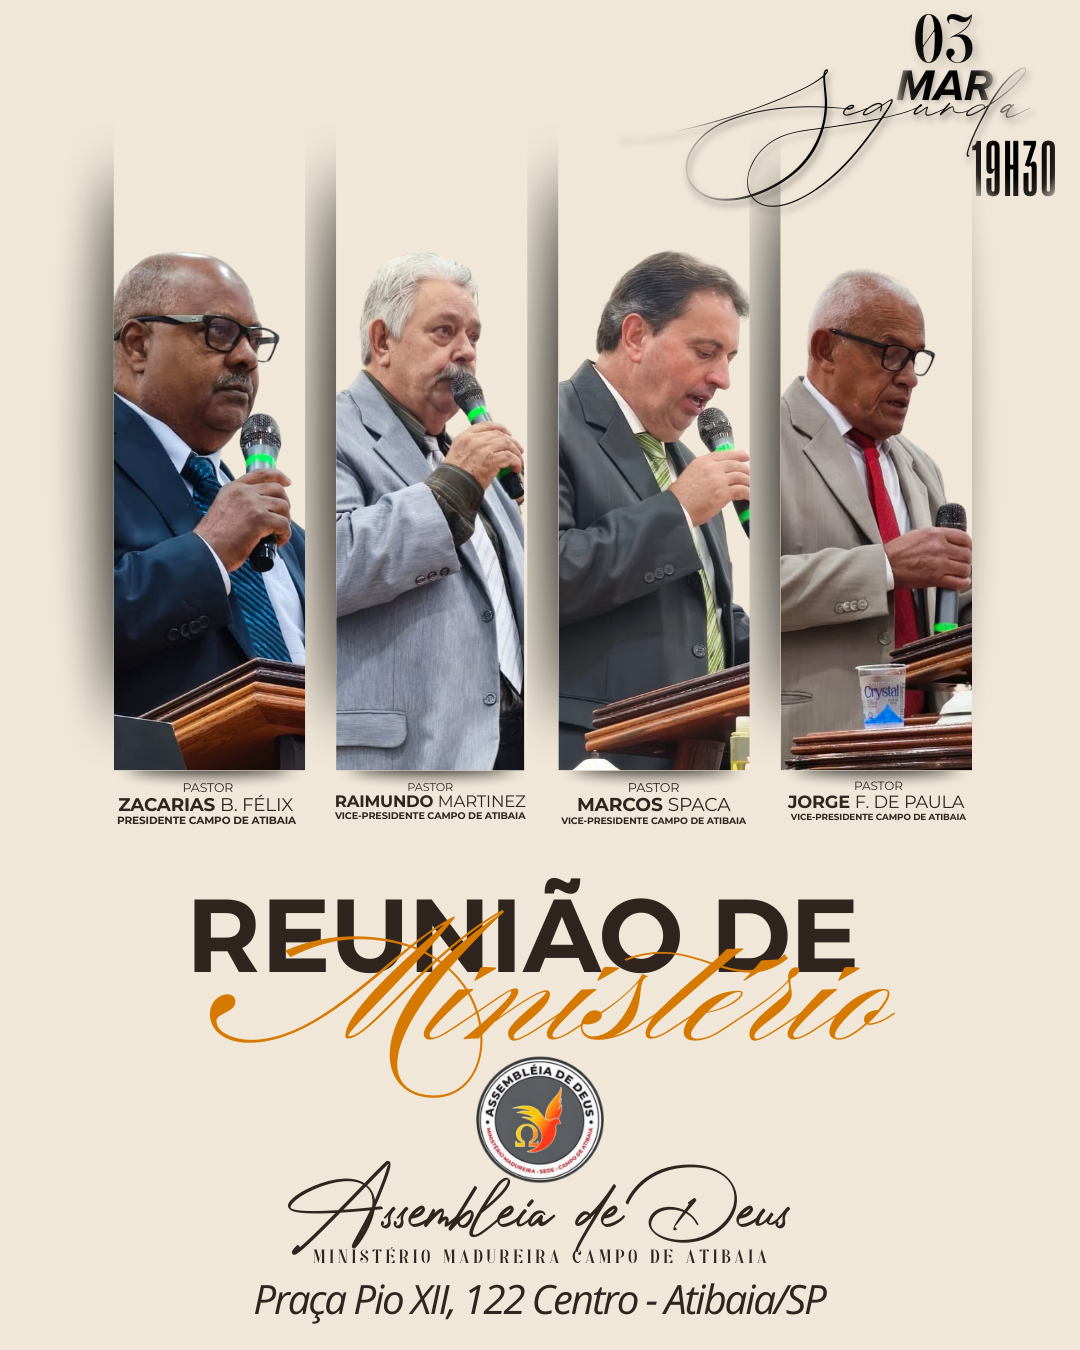
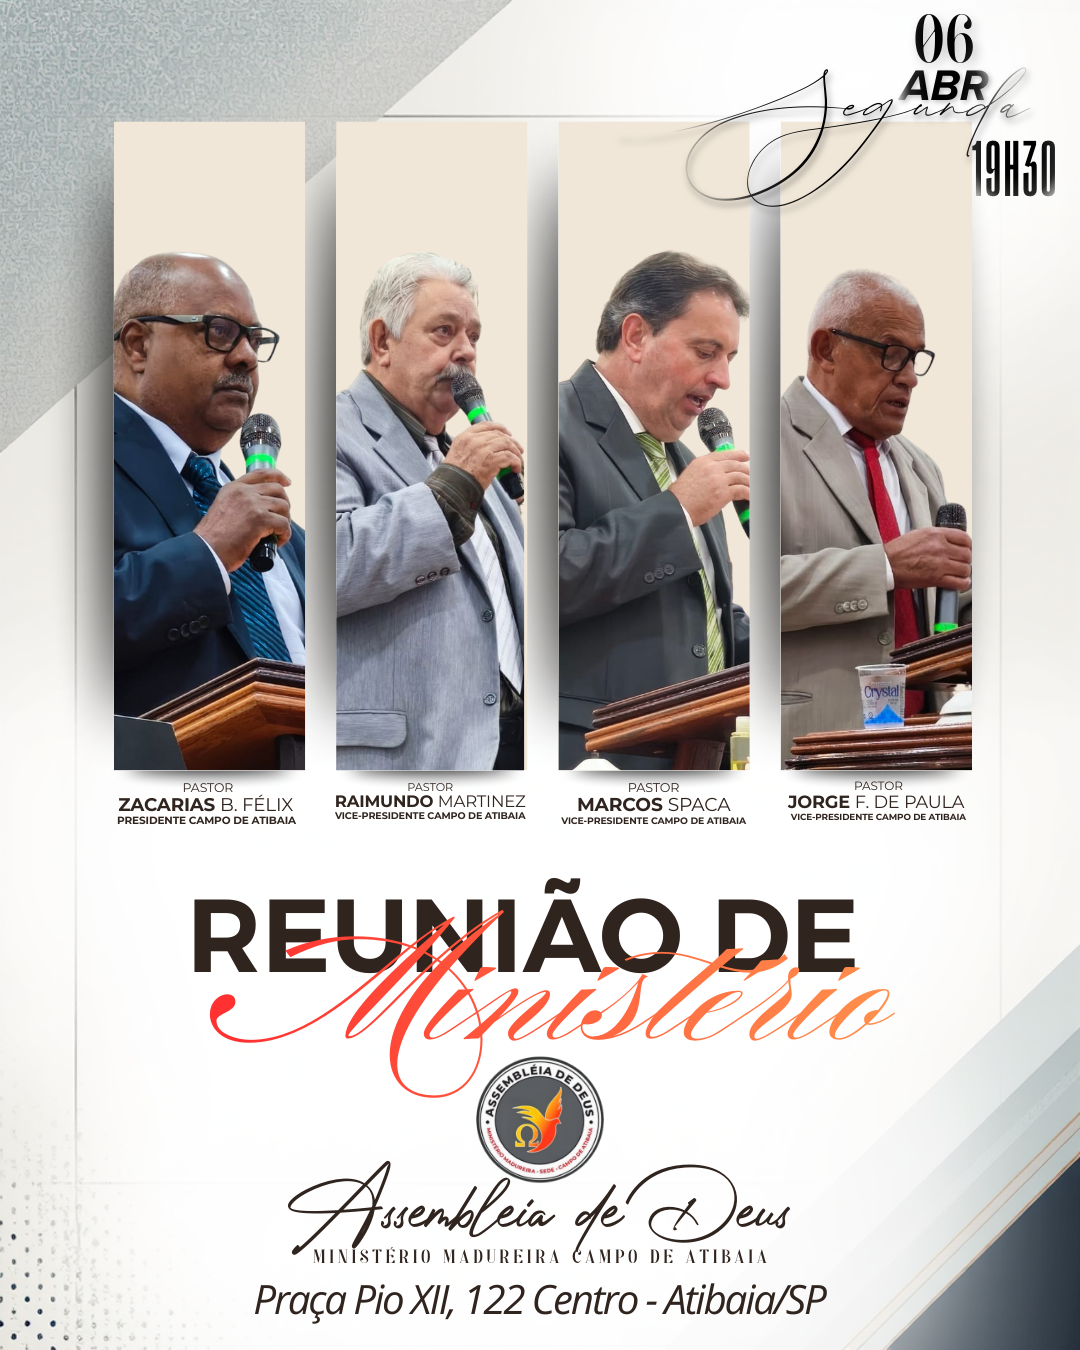
feat: refresh ministry and schedule artwork

diff --git a/src/data/ministerios.ts b/src/data/ministerios.ts
@@ -27,7 +27,7 @@ const ministerios: Ministerio[] = [
       "Ações de comunhão, discipulado e oração",
       "Participação em congressos e eventos especiais",
     ],
-    imagem: "/programacao/culto-para-mulheres.jpg",
+    imagem: "/ministerios/confadat.jpg",
     icone: "👑",
   },
   {
@@ -46,7 +46,7 @@ const ministerios: Ministerio[] = [
       "Comunhão entre jovens das congregações",
       "Atividades de discipulado e serviço cristão",
     ],
-    imagem: "/programacao/culto-de-jovens.png",
+    imagem: "/ministerios/umadat.jpg",
     icone: "🔥",
   },
   {
@@ -65,7 +65,7 @@ const ministerios: Ministerio[] = [
       "Participação nos cultos e eventos da igreja",
       "Momentos de comunhão, ensino bíblico e discipulado",
     ],
-    imagem: "/programacao/ensaio-jovens.png",
+    imagem: "/ministerios/rios-de-uncao.png",
     icone: "🌊",
   },
   {
@@ -84,7 +84,7 @@ const ministerios: Ministerio[] = [
       "Momentos de oração e comunhão",
       "Apoio às ações espirituais e sociais da igreja",
     ],
-    imagem: "/programacao/consagracao-mulheres.png",
+    imagem: "/ministerios/baluarte-de-fe.png",
     icone: "🛡",
   },
   {
@@ -103,7 +103,7 @@ const ministerios: Ministerio[] = [
       "Participação em atividades da Escola Bíblica Dominical",
       "Ações de acolhimento e formação cristã infantil",
     ],
-    imagem: "/programacao/EBD.png",
+    imagem: "/ministerios/infantil.png",
     icone: "🌱",
   },
 ];

diff --git a/src/data/agenda-visuais.ts b/src/data/agenda-visuais.ts
@@ -33,15 +33,16 @@ export const VISUAIS_EVENTO: Record<EventoTipo, EventoVisual> = {
     banner: "/programacao/culto-de-ceia.png",
   },
   "reuniao-de-obreiros": {
-    imagem: "/programacao/reuniao-ministerial.png",
-    banner: "/programacao/reuniao-ministerial.png",
+    imagem: "/programacao/reuniao-de-obreiro.png",
+    banner: "/programacao/reuniao-de-obreiro.png",
   },
   "dia-das-mulheres": {
-    imagem: "/programacao/dia-da-mulher.png",
-    banner: "/programacao/dia-da-mulher.png",
+    imagem: "/programacao/culto-para-mulheres.png",
+    banner: "/programacao/culto-para-mulheres.png",
   },
   batismo: {
-    imagem: "/fachada-da-igreja.jpg",
+    imagem: "/programacao/batismo.png",
+    banner: "/programacao/batismo.png",
   },
   "culto-com-a-mocidade": {
     imagem: "/programacao/culto-de-jovens.png",

diff --git a/src/data/mensagens.ts b/src/data/mensagens.ts
@@ -42,7 +42,7 @@ const mensagens: Mensagem[] = [
     resumo:
       "Culto especial com foco na família e no papel da mulher cristã, reunindo a igreja para um momento de adoração, comunhão e ensino bíblico.",
     youtubeId: "juq8QkL3urY",
-    capa: "/banners/banner-culto-para-mulheres.jpg",
+    capa: "/banners/banner-culto-para-mulheres.png",
   },
   {
     slug: "campanha-jejum-e-oracao-com-pr-wantuil",

diff --git a/src/data/programacao-banners.ts b/src/data/programacao-banners.ts
@@ -14,5 +14,5 @@ export const BANNERS_PROGRAMACAO = {
   reuniaoMinisterio: "/programacao/reuniao-ministerial.png",
   cultoJovens: "/programacao/culto-de-jovens.png",
   santaCeia: "/programacao/culto-de-ceia.png",
-  reuniaoObreiros: "/programacao/reuniao-ministerial.png",
+  reuniaoObreiros: "/programacao/reuniao-de-obreiro.png",
 } as const;

diff --git a/src/data/hero.ts b/src/data/hero.ts
@@ -11,7 +11,7 @@ export interface HeroEvento {
 export const heroEventos: HeroEvento[] = [
   {
     titulo: "Culto para Mulheres",
-    imagem: "/banners/banner-culto-para-mulheres.jpg",
+    imagem: "/banners/banner-culto-para-mulheres.png",
     link: "/programacao",
   },
   {
